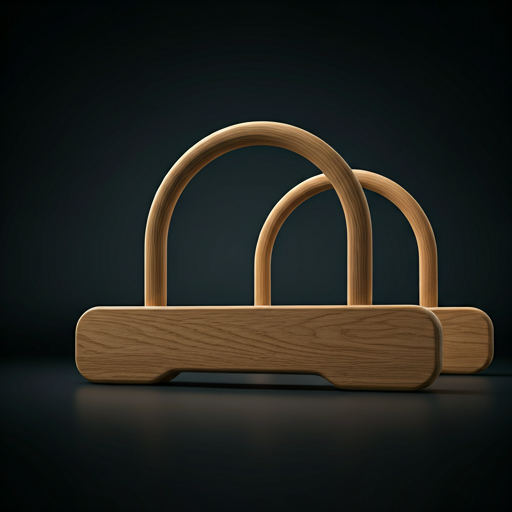
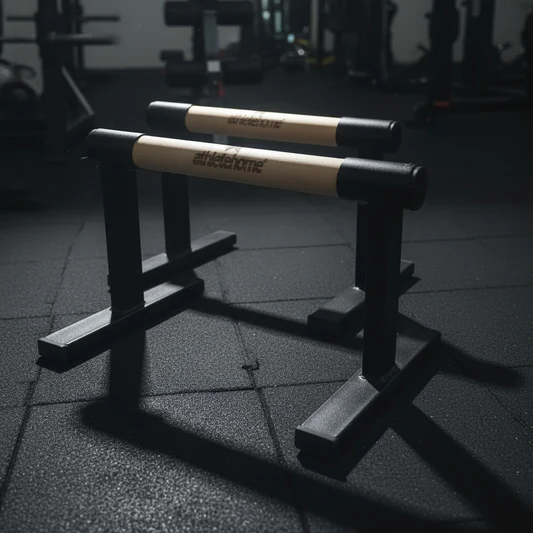
Revert "Adopt Stitch inspired products page"
This reverts commit 6b194ca74ad8fd77f222fdc49133af4c9352fc42.

diff --git a/assets/css/style.css b/assets/css/style.css
@@ -651,84 +651,3 @@ img {
 .floating-whatsapp:hover .whatsapp-tooltip {
     opacity: 1;
 }
-
-.shop-hero {
-    position: relative;
-    max-width: 1440px;
-    margin: 0 auto;
-    padding: 150px 7% 70px;
-    overflow: hidden;
-}
-
-.shop-hero-bg {
-    position: absolute;
-    right: 5%;
-    top: 96px;
-    z-index: 0;
-    font-family: "Anton", sans-serif;
-    font-size: clamp(110px, 20vw, 280px);
-    line-height: 0.8;
-    color: color-mix(in srgb, var(--text) 7%, transparent);
-    pointer-events: none;
-    user-select: none;
-}
-
-html[dir="rtl"] .shop-hero-bg {
-    right: auto;
-    left: 5%;
-}
-
-.shop-hero>*:not(.shop-hero-bg) {
-    position: relative;
-    z-index: 2;
-}
-
-.shop-hero h1 {
-    font-family: "Anton", sans-serif;
-    font-size: clamp(76px, 12vw, 155px);
-    line-height: 0.9;
-    text-transform: uppercase;
-    letter-spacing: -0.04em;
-}
-
-.shop-hero p:last-child {
-    max-width: 760px;
-    margin-top: 18px;
-    color: var(--muted);
-    font-size: 18px;
-}
-
-.products-page-section {
-    max-width: 1440px;
-    margin: 0 auto;
-    padding: 20px 7% 130px;
-}
-
-.filters {
-    margin-bottom: 46px;
-    display: flex;
-    flex-wrap: wrap;
-    gap: 14px;
-}
-
-.filter-btn {
-    min-height: 44px;
-    padding: 0 28px;
-    border-radius: 999px;
-    border: 1px solid var(--border);
-    background: transparent;
-    color: var(--muted);
-    cursor: pointer;
-    font-size: 11px;
-    font-weight: 900;
-    letter-spacing: 0.14em;
-    text-transform: uppercase;
-    transition: 0.25s;
-}
-
-.filter-btn:hover,
-.filter-btn.active {
-    background: var(--primary);
-    color: var(--primary-text);
-    border-color: var(--primary);
-}

diff --git a/products.html b/products.html
@@ -5,54 +5,41 @@
     <meta charset="UTF-8" />
     <meta name="viewport" content="width=device-width, initial-scale=1.0" />
 
-    <title>WATHBA | Products</title>
-
-    <link rel="preconnect" href="https://fonts.googleapis.com">
-    <link rel="preconnect" href="https://fonts.gstatic.com" crossorigin>
-    <link href="https://fonts.googleapis.com/css2?family=Anton&family=Be+Vietnam+Pro:wght@400;500;700;900&display=swap"
-        rel="stylesheet">
-    <link href="https://fonts.googleapis.com/css2?family=Material+Symbols+Outlined:wght,FILL@100..700,0..1&display=swap"
-        rel="stylesheet">
+    <title>وثبة | المنتجات</title>
 
     <link rel="stylesheet" href="assets/css/style.css" />
     <link rel="stylesheet" href="assets/css/responsive.css" />
 </head>
 
-<body data-theme="dark">
+<body data-theme="light">
 
-    <header class="site-header">
-        <a href="index.html" class="brand-logo" data-i18n="brand">وثبة</a>
+    <header class="navbar">
+        <a href="index.html" class="logo" data-i18n="brand">وثبة</a>
 
-        <nav class="main-nav">
+        <nav>
             <a href="index.html" data-i18n="navHome">الرئيسية</a>
-            <a href="products.html" class="active" data-i18n="navProducts">المنتجات</a>
+            <a href="products.html" data-i18n="navProducts">المنتجات</a>
             <a href="about.html" data-i18n="navAbout">من نحن</a>
             <a href="contact.html" data-i18n="navContact">تواصل معنا</a>
         </nav>
 
         <div class="nav-actions">
-            <button id="langToggle" class="nav-icon-btn" type="button">EN</button>
-            <button id="themeToggle" class="nav-icon-btn" type="button">
-                <span class="material-symbols-outlined">dark_mode</span>
-            </button>
+            <button id="themeToggle" class="icon-btn" type="button">🌙</button>
+            <button id="langToggle" class="lang-btn" type="button">EN</button>
         </div>
     </header>
 
     <main>
 
-        <section class="shop-hero">
-            <div class="shop-hero-bg">WATHBA</div>
-
-            <p class="eyebrow" data-i18n="productsPageMini">متجر وثبة</p>
-
-            <h1 data-i18n="productsPageTitle">EQUIPMENT</h1>
-
-            <p data-i18n="productsPageText">
+        <section class="page-hero">
+            <p data-i18n="productsPageMini">متجر وثبة</p>
+            <h1 data-i18n="productsPageTitle">اختر معداتك وابدأ التقدم</h1>
+            <span data-i18n="productsPageText">
                 تصفح معدات الكاليستنكس المختارة بعناية، واطلب مباشرة عبر واتساب.
-            </p>
+            </span>
         </section>
 
-        <section class="products-page-section">
+        <section class="products-section">
             <div class="filters" id="categoryFilters"></div>
 
             <div class="products-grid" id="allProducts"></div>
@@ -60,22 +47,21 @@
 
     </main>
 
-    <footer class="site-footer">
-        <div>
-            <h2>WATHBA</h2>
-            <p data-i18n="footerText">© 2026 وثبة. جميع الحقوق محفوظة.</p>
-        </div>
-
-        <a href="index.html" data-i18n="navHome">الرئيسية</a>
-        <a href="about.html" data-i18n="navAbout">من نحن</a>
-        <a href="contact.html" data-i18n="navContact">تواصل معنا</a>
+    <footer>
+        <p data-i18n="footerText">© 2026 وثبة. جميع الحقوق محفوظة.</p>
     </footer>
-
-    <a class="floating-whatsapp" href="https://wa.me/[phone redacted]" target="_blank" aria-label="WhatsApp">
+    <a class="floating-whatsapp" href="https://wa.me/9627XXXXXXXX" target="_blank" aria-label="WhatsApp">
         <span class="whatsapp-tooltip" data-i18n="floatingWhatsapp">راسلنا</span>
-        <span class="material-symbols-outlined">chat</span>
-    </a>
 
+        <span class="whatsapp-icon">
+            <svg viewBox="0 0 32 32" aria-hidden="true">
+                <path
+                    d="M16.02 3C8.84 3 3 8.82 3 15.98c0 2.29.6 4.53 1.74 6.5L3 29l6.68-1.75c1.9 1.04 4.04 1.59 6.34 1.59h.01C23.2 28.84 29 23.02 29 15.86 29 8.82 23.19 3 16.02 3Zm0 23.64c-2.04 0-4.03-.55-5.77-1.58l-.41-.24-3.96 1.04 1.06-3.86-.27-.4a10.72 10.72 0 0 1-1.65-5.72c0-5.93 4.84-10.76 10.8-10.76 2.88 0 5.59 1.12 7.62 3.15a10.68 10.68 0 0 1 3.17 7.61c0 5.94-4.83 10.76-10.79 10.76Z" />
+                <path
+                    d="M19.11 17.29c-.29-.14-1.7-.84-1.96-.93-.26-.1-.45-.14-.64.14-.19.29-.74.93-.91 1.12-.17.19-.33.21-.62.07-.29-.14-1.21-.45-2.31-1.43-.85-.76-1.43-1.7-1.6-1.99-.17-.29-.02-.45.13-.59.13-.13.29-.33.43-.5.14-.17.19-.29.29-.48.1-.19.05-.36-.02-.5-.07-.14-.64-1.55-.88-2.12-.23-.56-.47-.48-.64-.49h-.55c-.19 0-.5.07-.76.36-.26.29-1 98-1 2.39s1.03 2.78 1.17 2.97c.14.19 2.03 3.1 4.92 4.35.69.3 1.23.48 1.65.61.69.22 1.32.19 1.82.12.56-.08 1.7-.69 1.94-1.36.24-.67.24-1.24.17-1.36-.07-.12-.26-.19-.55-.33Z" />
+            </svg>
+        </span>
+    </a>
     <script src="assets/js/translations.js"></script>
     <script src="assets/js/products-data.js"></script>
     <script src="assets/js/whatsapp.js"></script>

diff --git a/assets/js/products.js b/assets/js/products.js
@@ -1,5 +1,5 @@
 let currentLang = localStorage.getItem("wathbaLang") || "ar";
-let currentTheme = localStorage.getItem("wathbaTheme") || "dark";
+let currentTheme = localStorage.getItem("wathbaTheme") || "light";
 let currentFilter = "all";
 
 const html = document.documentElement;
@@ -16,7 +16,8 @@ function applyLanguage() {
 
     document.querySelectorAll("[data-i18n]").forEach((element) => {
         const key = element.dataset.i18n;
-        if (t && t[key]) {
+
+        if (t[key]) {
             element.textContent = t[key];
         }
     });
@@ -33,10 +34,7 @@ function applyTheme() {
     document.body.dataset.theme = currentTheme;
 
     if (themeToggle) {
-        themeToggle.innerHTML =
-            currentTheme === "dark"
-                ? '<span class="material-symbols-outlined">light_mode</span>'
-                : '<span class="material-symbols-outlined">dark_mode</span>';
+        themeToggle.textContent = currentTheme === "dark" ? "☀️" : "🌙";
     }
 }
 
@@ -64,11 +62,12 @@ function renderFilters() {
     if (!filtersContainer) return;
 
     const categories = getCategories();
-    const allText = currentLang === "ar" ? "كل المعدات" : "All Equipment";
+
+    const allText = currentLang === "ar" ? "الكل" : "All";
 
     filtersContainer.innerHTML = `
-    <button
-      class="filter-btn ${currentFilter === "all" ? "active" : ""}"
+    <button 
+      class="filter-btn ${currentFilter === "all" ? "active" : ""}" 
       onclick="setFilter('all')"
     >
       ${allText}
@@ -77,8 +76,8 @@ function renderFilters() {
     ${categories
             .map(
                 (category) => `
-          <button
-            class="filter-btn ${currentFilter === category.key ? "active" : ""}"
+          <button 
+            class="filter-btn ${currentFilter === category.key ? "active" : ""}" 
             onclick="setFilter('${category.key}')"
           >
             ${category[currentLang]}
@@ -104,13 +103,11 @@ function getVariantsPreview(product) {
 
     return `
     <div class="variants-preview">
-      <div>
-        <small>${title}</small>
-        <div class="variant-chips">
-          ${product.variants
+      <small>${title}</small>
+      <div class="variant-chips">
+        ${product.variants
             .map((variant) => `<span>${variant[currentLang]}</span>`)
             .join("")}
-        </div>
       </div>
     </div>
   `;
@@ -129,12 +126,13 @@ function renderProducts() {
             return `
         <article class="product-card">
           <a href="product.html?id=${product.id}" class="product-image-box">
-            <img
-              src="${product.image}"
-              alt="${product.name[currentLang]}"
-              onerror="this.style.display='none'; this.parentElement.classList.add('no-image');"
-            >
-            ${getVariantsPreview(product)}
+           <img 
+  src="${product.image}" 
+  alt="${product.name[currentLang]}"
+  onerror="this.style.display='none'; this.parentElement.classList.add('no-image');"
+>
+
+${getVariantsPreview(product)}
           </a>
 
           <div class="product-info">
@@ -143,9 +141,8 @@ function renderProducts() {
             <p class="desc">${product.description[currentLang]}</p>
 
             <div class="product-bottom">
-              <strong>${getProductPriceText(product, currentLang)}</strong>
-              <button onclick='openWhatsApp(${JSON.stringify(product)})'>
-                ${currentLang === "ar" ? "اطلب" : "Order"}
+<strong>${getProductPriceText(product, currentLang)}</strong>              <button onclick='openWhatsApp(${JSON.stringify(product)})'>
+                ${currentLang === "ar" ? "اطلب عبر واتساب" : "Order on WhatsApp"}
               </button>
             </div>
           </div>
@@ -157,7 +154,7 @@ function renderProducts() {
 
 if (themeToggle) {
     themeToggle.addEventListener("click", () => {
-        currentTheme = currentTheme === "dark" ? "light" : "dark";
+        currentTheme = currentTheme === "light" ? "dark" : "light";
         localStorage.setItem("wathbaTheme", currentTheme);
         applyTheme();
     });

diff --git a/assets/css/responsive.css b/assets/css/responsive.css
@@ -171,34 +171,3 @@
         display: none;
     }
 }
-
-@media (max-width: 768px) {
-    .shop-hero {
-        padding: 150px 5% 48px;
-    }
-
-    .shop-hero h1 {
-        font-size: 72px;
-    }
-
-    .shop-hero p:last-child {
-        font-size: 15px;
-    }
-
-    .products-page-section {
-        padding-left: 5%;
-        padding-right: 5%;
-        padding-bottom: 90px;
-    }
-
-    .filters {
-        flex-wrap: nowrap;
-        overflow-x: auto;
-        padding-bottom: 8px;
-    }
-
-    .filter-btn {
-        white-space: nowrap;
-        padding: 0 20px;
-    }
-}

diff --git a/assets/js/translations.js b/assets/js/translations.js
@@ -24,7 +24,7 @@ const translations = {
         needHelpText: "احكِ لنا مستواك وهدفك، ونساعدك تختار الأفضل.",
         askWhatsapp: "اسألنا على واتساب",
         productsPageMini: "متجر وثبة",
-        productsPageTitle: "EQUIPMENT",
+        productsPageTitle: "اختر معداتك وابدأ التقدم",
         productsPageText: "تصفح معدات الكاليستنكس المختارة بعناية، واطلب مباشرة عبر واتساب.",
         footerText: "© 2026 وثبة. جميع الحقوق محفوظة.",
         heroTitleMain: "ENGINEERED",
@@ -59,7 +59,7 @@ const translations = {
         needHelpText: "Tell us your level and goal, and we will help you choose.",
         askWhatsapp: "Ask us on WhatsApp",
         productsPageMini: "WATHBA Store",
-        productsPageTitle: "EQUIPMENT",
+        productsPageTitle: "Choose your gear and start progressing",
         productsPageText: "Browse selected calisthenics equipment and order directly through WhatsApp.",
         footerText: "© 2026 WATHBA. All rights reserved.",
         heroTitleMain: "ENGINEERED",